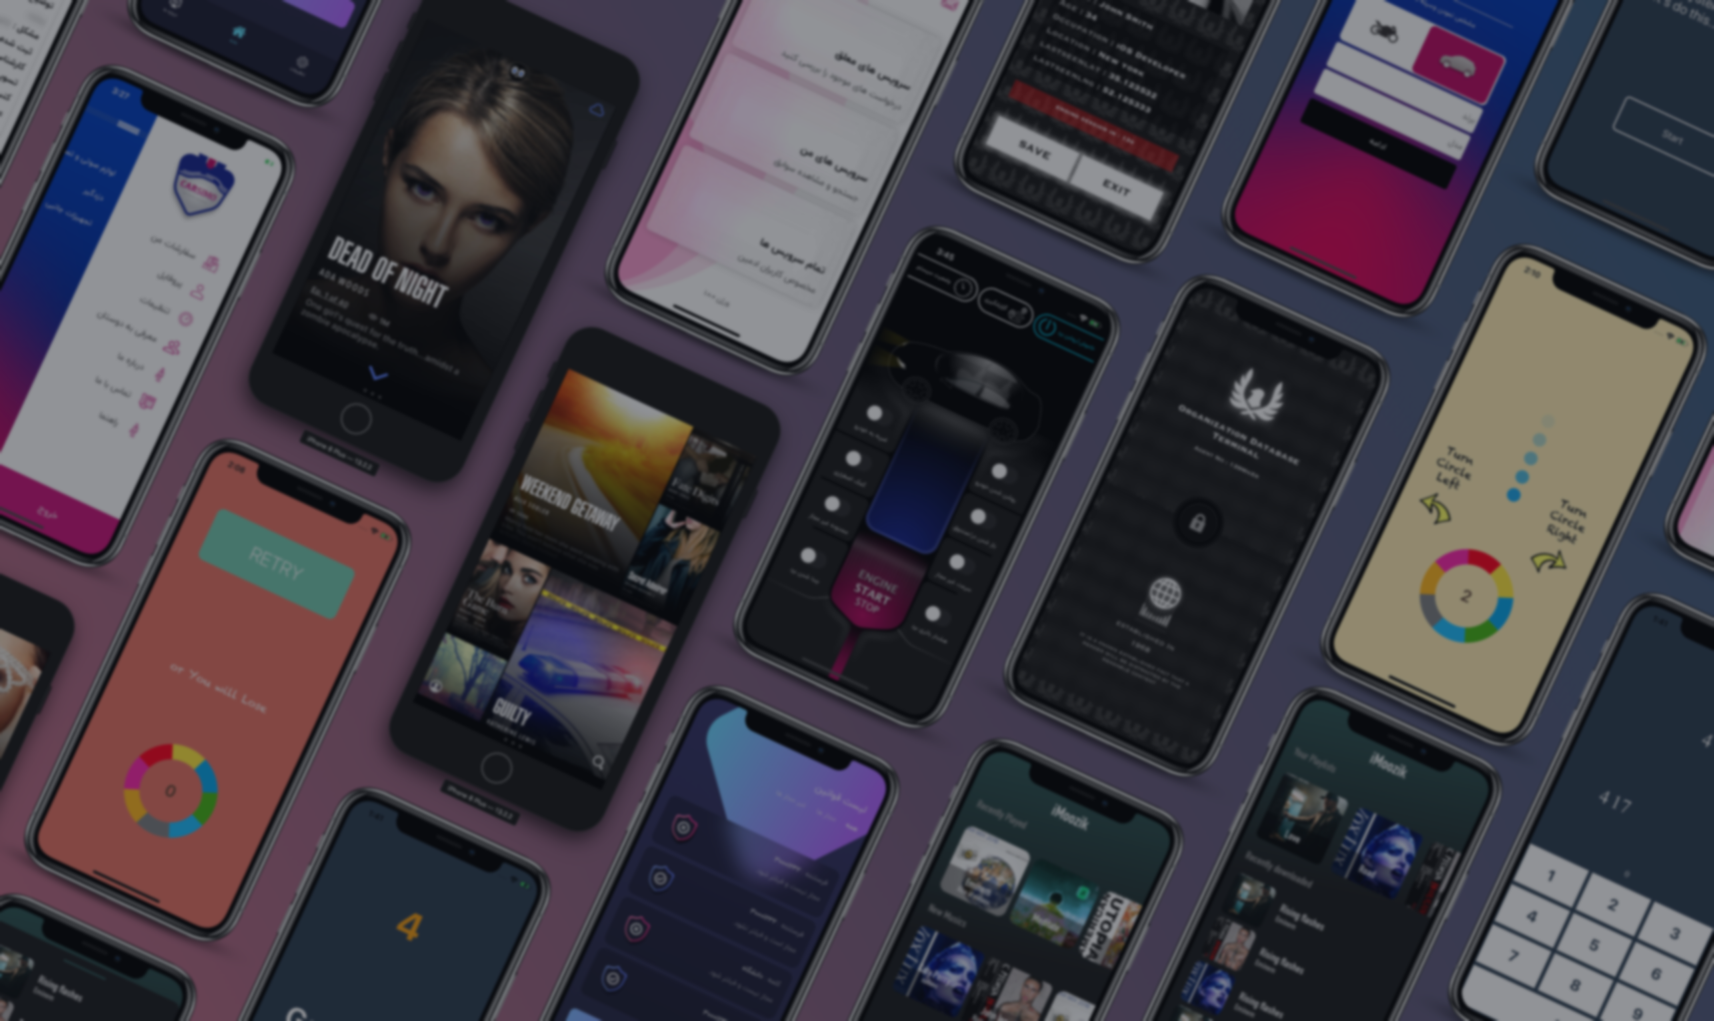
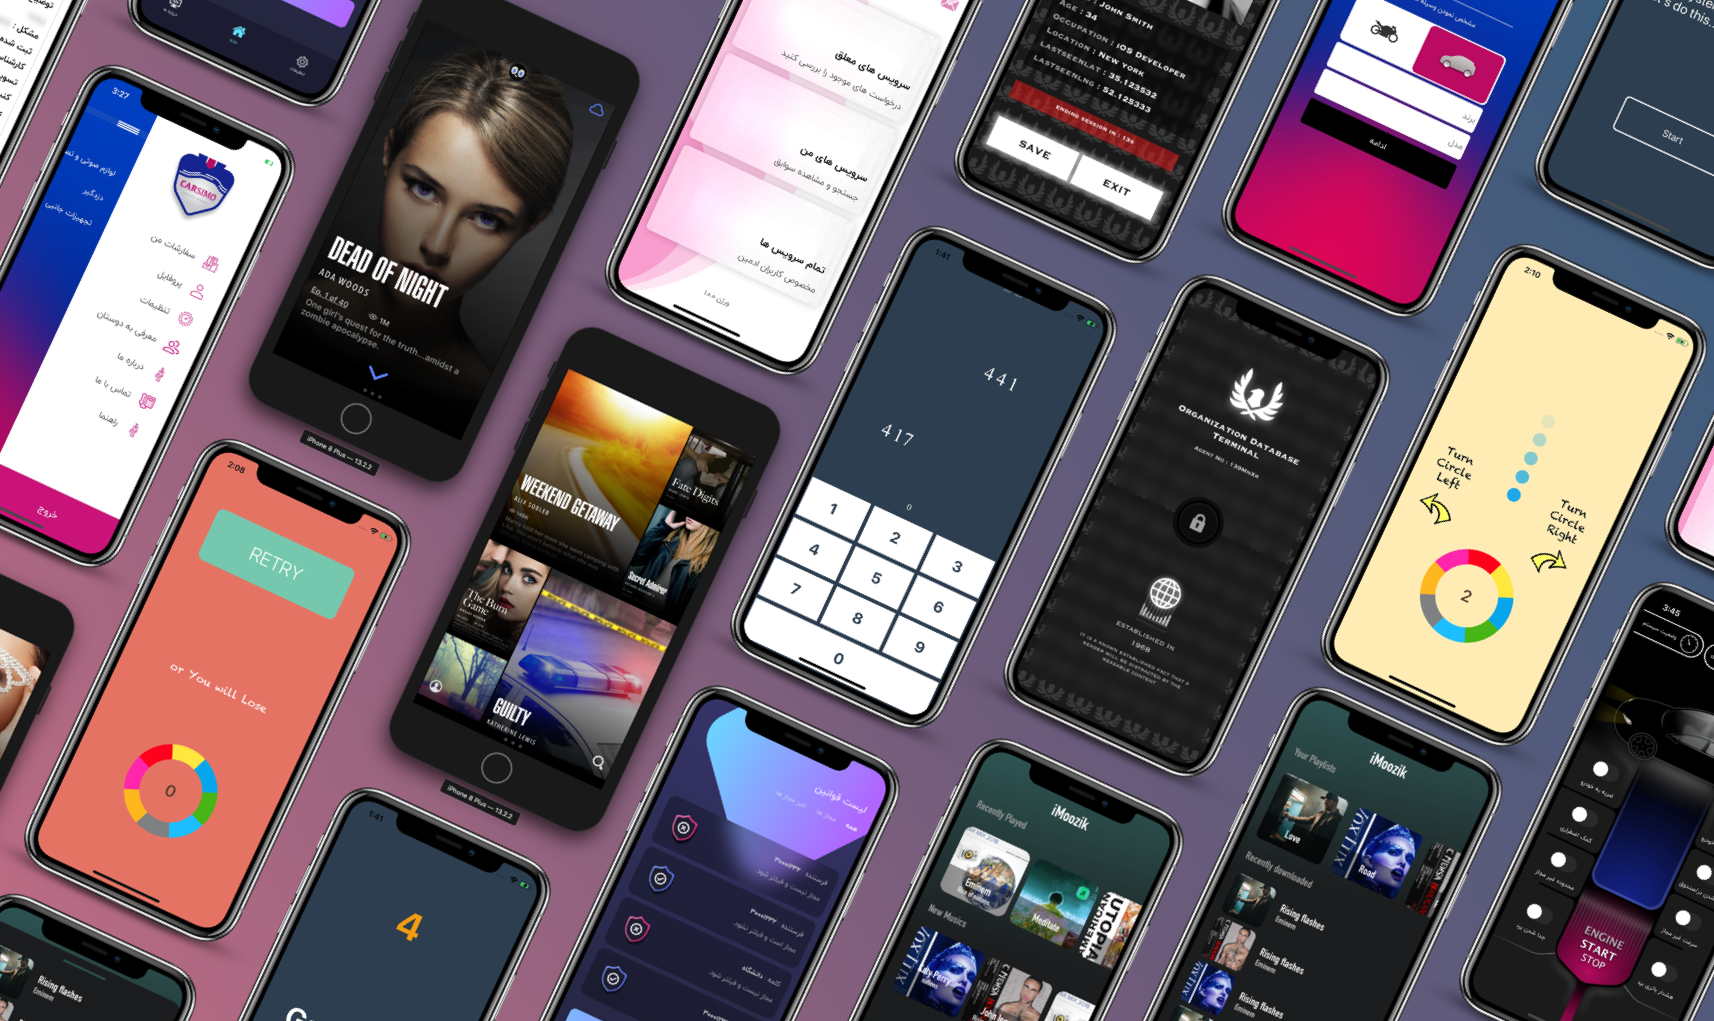
changed ui

diff --git a/styles.css b/styles.css
@@ -9481,7 +9481,7 @@ a.text-dark:focus, a.text-dark:hover {
 .hero-background {
   width: 100%;
   height: 100vh;
-  background-image: url('Images/BG.png');
+  background-image: url('Images/BG2.png');
   background-size: cover;
   background-position: 80%
 }
@@ -9522,7 +9522,7 @@ a.text-dark:focus, a.text-dark:hover {
 
 .hero-slogan {
   color: hsla(0, 0%, 100%, .9);
-  font-weight: 100
+  font-weight: 350
 }
 
 .navbar {
@@ -9823,7 +9823,7 @@ body {
 }
 
 .hero-overlay {
-  background-color: rgba(0, 0, 0, 0.30)
+  background-color: rgba(0, 0, 0, 0.3)
 }
 
 .navbar {
@@ -9928,4 +9928,17 @@ h1, h2, h3, h4, h5, h6, .album-title, .album-description, .hero-title, .hero-slo
 @keyframes typing {
   from { width: 0 }
   to { width: 100% }
+}
+
+.white-bg {
+  background-color: rgb(219, 219, 219);
+  padding-right: 20px;
+  padding-left: 20px;
+  padding-top: 26px;
+  padding-bottom: 10px;
+  border-radius: 2px;
+}
+
+.text-with-background {
+  color: black;
 }

diff --git a/index.html b/index.html
@@ -40,9 +40,9 @@
   <div class="hero" id="hero">
 
     <div class="hero-content container d-flex align-items-center" id="hero">
-      <div data-aos="fade-up">
-        <h1 class="hero-title" data-aos="zoom-in">SASAN ANGEL</h1>
-        <p class="hero-slogan display-4" data-aos="fade-up">iOS Engineer & UI/UX Designer.</p>
+      <div class="white-bg" data-aos="fade-up">
+        <h1 class="hero-title title-labels" data-aos="zoom-in">SASAN ANGEL</h1>
+        <p class="hero-slogan display-4 title-labels" data-aos="zoom-in">iOS Engineer & UI/UX Designer.</p>
       </div>
       <div class="hero-background" title="SASAN ANGEL"></div>
       <div class="hero-overlay"></div>
